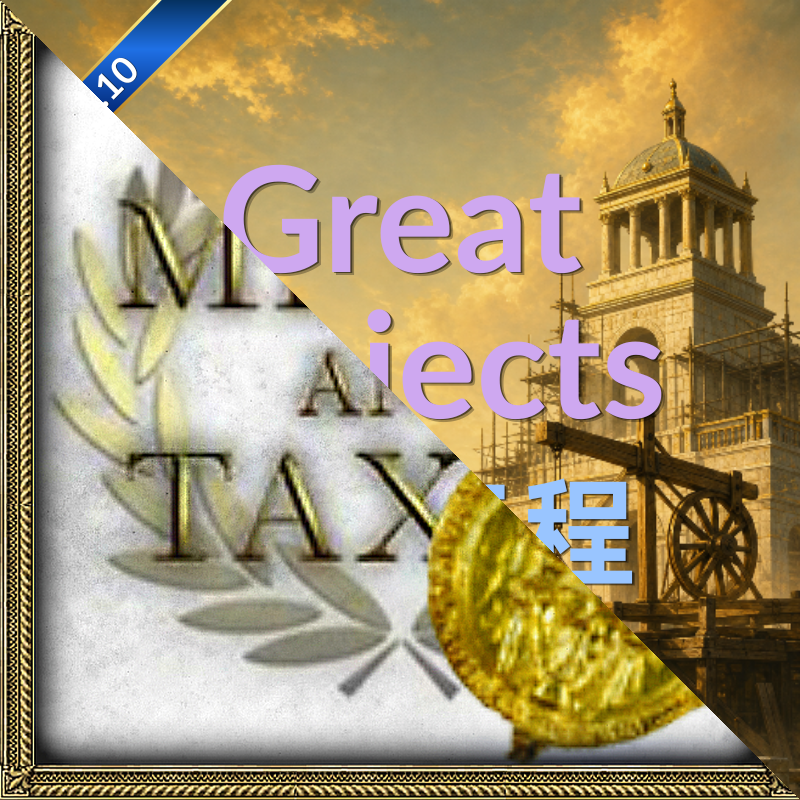
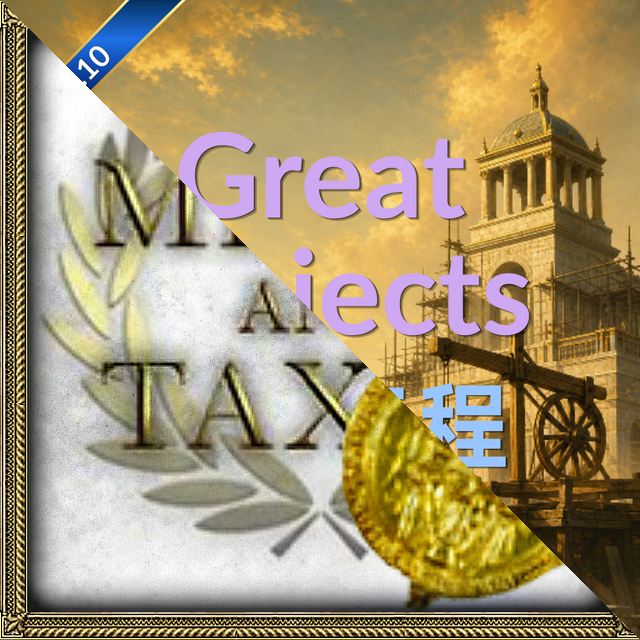
Add compatibility submod documentation in English and Chinese; update thumbnail generation script to optimize image size

Changed region(s): [[0.0, 0.0, 1.0, 1.0]]

diff --git a/scripts/compat/gen_compat_thumbnails.py b/scripts/compat/gen_compat_thumbnails.py
@@ -8,7 +8,9 @@ from PIL import Image
 
 REPO_ROOT = Path(__file__).resolve().parents[2]
 ED_THUMBNAIL = REPO_ROOT / "src_engineering_department" / ".metadata" / "thumbnail.png"
-OUTPUT_SIZE = (800, 800)
+OUTPUT_SIZE = (640, 640)
+# Steam Workshop rejects preview images over 1 MiB; keep real margin below that.
+MAX_BYTES = 900_000
 
 # (external mod thumbnail, output submod thumbnail)
 TARGETS = [
@@ -49,8 +51,14 @@ def generate(external_thumbnail: Path, out_path: Path, mask: Image.Image) -> Non
     ext_img = load_square(external_thumbnail)
     composited = Image.composite(ed_img, ext_img, mask)
     out_path.parent.mkdir(parents=True, exist_ok=True)
-    composited.save(out_path)
-    print(f"Wrote {out_path.relative_to(REPO_ROOT)}")
+    composited.save(out_path, format="PNG", optimize=True, compress_level=9)
+    size = out_path.stat().st_size
+    if size > MAX_BYTES:
+        raise RuntimeError(
+            f"{out_path.relative_to(REPO_ROOT)} is {size} bytes, over the {MAX_BYTES}-byte "
+            "budget -- shrink OUTPUT_SIZE before shipping (Steam Workshop rejects >1 MiB previews)."
+        )
+    print(f"Wrote {out_path.relative_to(REPO_ROOT)} ({size} bytes)")
 
 
 def main() -> None:

diff --git a/docs/marketing/great_project_video_script.md b/docs/marketing/great_project_video_script.md
@@ -21,69 +21,69 @@
 
 | 时间 | 旁白 | 画面建议 |
 |---|---|---|
-| 0:55–1:15 | "伟大工程模组使用原版国际组织功能承载，并且与其他模组完全兼容。" | 工程部 IO 面板截图 |
-| 1:15–1:40 | "这套系统一共提供54种通用奇观，和123座历史上真实存在过的独特奇观。" | "54 通用 / 123 独特"数字做成动态计数器动画 |
-| 1:15–1:40 | "进行奇观建设需要经过构想、论证、测绘、组织和物流、建设和仪式六大阶段，仅仅拥有杜卡特不足以完成建造，调动人力、生产物资同样重要。" | "54 通用 / 123 独特"数字做成动态计数器动画 |
-| 1:15–1:40 | "在建设过程中，你会遇到数百种随机事件，是付出代价全力推进，还是安抚国内不满，一切由你掌握" | "54 通用 / 123 独特"数字做成动态计数器动画 |
-| 1:15–1:40 | "当然，征服世界上已存在的奇观也是一种选择。伟大工程地图模式能够帮你定位征服的目标。" | "54 通用 / 123 独特"数字做成动态计数器动画 |
-| 1:15–1:40 | "伟大工程有的提供本地效果，有的提供全局效果，让奇观真正成为你设计国家发展路线上的一环" | "54 通用 / 123 独特"数字做成动态计数器动画 |
+| 0:55–1:15 | "这套系统其实是挂在原版的国际组织功能上做的，跟其他模组基本不会打架，可以放心一起用。" | 工程部 IO 面板截图 |
+| 1:15–1:40 | "先说数字：一共有54种通用奇观，还有123座历史上真实存在过的独特奇观，内容量还是挺大的。" | "54 通用 / 123 独特"数字做成动态计数器动画 |
+| 1:15–1:40 | "想建奇观，光有钱可不够，得走构想、论证、测绘、组织物流、建设、仪式这六个阶段，一步都少不了。" | "54 通用 / 123 独特"数字做成动态计数器动画 |
+| 1:15–1:40 | "建设过程中还会遇到几百种随机事件，是花代价硬推，还是先安抚国内情绪，都由你自己拿主意。" | "54 通用 / 123 独特"数字做成动态计数器动画 |
+| 1:15–1:40 | "当然，你也可以选择直接去征服已经存在的奇观，我们做了一个专门的地图模式，能帮你标出目标位置。" | "54 通用 / 123 独特"数字做成动态计数器动画 |
+| 1:15–1:40 | "奇观的效果分本地和全局两种，让它真正能影响到你的国家发展路线，而不只是好看而已。" | "54 通用 / 123 独特"数字做成动态计数器动画 |
 
 ---
 
 ## 第三幕：六大建设阶段（1:40–7:10，核心内容）
 
-**过渡：** "接下来，让我们走完一座奇观从无到有的完整六个阶段。"
+**过渡：** "接下来，我们就跟着一座奇观，走一遍从无到有的六个阶段。"
 
 ### 阶段一｜构想 Concept（1:40–2:25）
 
 | 旁白 | 画面 |
 |---|---|
-| "一切始于你任命的'大工程师'。他会根据国家现状，随机提出一个可行的奇观方案。" | 伟大工程师角色卡特写 |
-| "如果国内已有低等级奇观，扩建会成为优先提案。" | 三个选项按钮特写（接受/驳回/贿赂）+ 声望/金币图标高亮 |
-| "当然，如果你对提案不满，批判或是贿赂都是可行操作，但额外的代价不可避免。" | 三个选项按钮特写（接受/驳回/贿赂）+ 声望/金币图标高亮 |
+| "一切从你任命的'大工程师'开始，他会根据国家现状，给你提一个可行的奇观方案。" | 伟大工程师角色卡特写 |
+| "如果国内已经有低等级的奇观，他通常会优先建议扩建。" | 三个选项按钮特写（接受/驳回/贿赂）+ 声望/金币图标高亮 |
+| "如果你对提案不满意，也可以选择批评或者贿赂，不过都要付出一点额外代价——毕竟没有白得的方案。" | 三个选项按钮特写（接受/驳回/贿赂）+ 声望/金币图标高亮 |
 
 ### 阶段二｜论证 Debate（2:25–3:10）
 
 | 旁白 | 画面 |
 |---|---|
-| "方案确定后，你需要说服国内的上等阶层，即贵族、市民和教士支持这项工程。" | "国内支持度"进度条 UI 特写，0–200 刻度 |
-| "满足他们提出的诉求，把支持度攒到100点以上，才能进入下一步。" | 三个阶层图标（贵族/市民/教会）与对应诉求 tooltip |
-| "记住，一旦结束辩论，支持度就会每月损失。谨慎的统治者最多可以积攒200点支持度再结束辩论。" | 三个阶层图标（贵族/市民/教会）与对应诉求 tooltip |
+| "方案定下来之后，你需要说服国内的上层阶级——贵族、市民和教士，支持这项工程。" | "国内支持度"进度条 UI 特写，0–200 刻度 |
+| "满足他们提出的诉求，把支持度攒到100点以上，才能进入下一阶段。" | 三个阶层图标（贵族/市民/教会）与对应诉求 tooltip |
+| "辩论一旦结束，支持度就会每个月往下掉，所以谨慎一点的话，可以先攒到200点封顶再结束。" | 三个阶层图标（贵族/市民/教会）与对应诉求 tooltip |
 
 ### 阶段三｜测绘 Survey（3:10–4:00）
 
 | 旁白 | 画面 |
 |---|---|
-| "在测绘阶段，工程师将亲自前往选定地点进行勘测，评估三项核心能力：规模、物流、组织度，每项0–100%。" | 三项数值条动画（规模/物流/组织） |
-| "这三种适性由地点本身的隐藏契合度、工程师个人能力加上一点点运气共同决定，分别影响这座奇观未来能达到的最高等级、建造成本和工期。" | 数值联动效果示意图（箭头连接到"最高等级/成本/工期"三个结果） |
-| "完成一次测绘可以揭示一项适性条件，贤能的统治者能够选择最恰当的地点进行建设。" | 数值联动效果示意图（箭头连接到"最高等级/成本/工期"三个结果） |
-| "当然，独特奇观拥有固定的历史地点。他们的测绘结果总是非常良好。" | 数值联动效果示意图（箭头连接到"最高等级/成本/工期"三个结果） |
+| "测绘阶段，工程师会亲自去选定的地点勘察，评估三项数值：规模、物流、组织度，都是0到100%。" | 三项数值条动画（规模/物流/组织） |
+| "这三项数值由地点本身的隐藏契合度、工程师的能力，再加上一点运气共同决定，会影响奇观未来能达到的最高等级、造价和工期。" | 数值联动效果示意图（箭头连接到"最高等级/成本/工期"三个结果） |
+| "每测一次能揭示一项数值，所以比较讲究的玩家会多测几次，挑一个条件比较好的地点。" | 数值联动效果示意图（箭头连接到"最高等级/成本/工期"三个结果） |
+| "独特奇观因为地点是固定的，测绘结果通常都比较好。" | 数值联动效果示意图（箭头连接到"最高等级/成本/工期"三个结果） |
 
 ### 阶段四｜组织与建设 Organization & Construction（4:00–5:20，篇幅最长）
 
 | 旁白 | 画面 |
 |---|---|
-| "勘测完成，工程才证实开始。你需要建造工地推进建设，每个工地每月提供1000进度。" | 劳工营地/物料仓库建筑图标 |
-| "奇观的四个组成部分——地基、主体、功能与装饰——每个模块都需要至少十万进度才能完工。" | 四段式建造进度条动画（地基→主体→功能→装饰），可用延时摄影风格剪辑呈现"从空地到建筑"的渐变 |
-| "建造更多的工地能够加速建设，不过千万小心，工地完全由国家维护，费用昂贵。" | 四段式建造进度条动画（地基→主体→功能→装饰），可用延时摄影风格剪辑呈现"从空地到建筑"的渐变 |
-| "工地使用奇观建材作为维护商品，你必须建造足够多的建材工坊，否则工地的工作效率将会下降，维护费也将上涨" | 四段式建造进度条动画（地基→主体→功能→装饰），可用延时摄影风格剪辑呈现"从空地到建筑"的渐变 |
-| "更重要的是，工地必须有劳工工作，每个工地都需要2000名劳动力。这是对国家人口升级速度和迁徙速度的巨大考验。" | 四段式建造进度条动画（地基→主体→功能→装饰），可用延时摄影风格剪辑呈现"从空地到建筑"的渐变 |
-| "如此复杂的工程，想要一次性完成高等级奇观无疑是困难的。不过，你可以先建造低级奇观，随后再在进行扩建，不会损失任何奖励，先前建设留下的建材工坊也会保留。" | 四段式建造进度条动画（地基→主体→功能→装饰），可用延时摄影风格剪辑呈现"从空地到建筑"的渐变 |
+| "勘测完成后工程才算正式开始，你需要建造工地来推进进度，每个工地每月提供1000点进度。" | 劳工营地/物料仓库建筑图标 |
+| "奇观分成地基、主体、功能、装饰四个部分，每个部分都需要至少十万点进度才能完工。" | 四段式建造进度条动画（地基→主体→功能→装饰），可用延时摄影风格剪辑呈现"从空地到建筑"的渐变 |
+| "多建几个工地可以加快建设速度，不过工地是国家出钱维护的，费用不便宜，得量力而行。" | 四段式建造进度条动画（地基→主体→功能→装饰），可用延时摄影风格剪辑呈现"从空地到建筑"的渐变 |
+| "工地需要消耗奇观建材，所以你还得配套建一些建材工坊，不然工地效率会下降，维护费也会跟着上涨。" | 四段式建造进度条动画（地基→主体→功能→装饰），可用延时摄影风格剪辑呈现"从空地到建筑"的渐变 |
+| "另外工地还需要劳工，每个工地要2000名劳动力，这对人口的升级速度和迁徙速度也是个考验。" | 四段式建造进度条动画（地基→主体→功能→装饰），可用延时摄影风格剪辑呈现"从空地到建筑"的渐变 |
+| "一次性建到最高等级并不容易，不过你可以先建一个低等级版本，之后再扩建，之前的奖励和建材工坊都会保留。" | 四段式建造进度条动画（地基→主体→功能→装饰），可用延时摄影风格剪辑呈现"从空地到建筑"的渐变 |
 
 ### 阶段五｜仪式 Ceremony（5:20–6:10）
 
 | 旁白 | 画面 |
 |---|---|
-| "正如同历史上，很多奇观的伟大之处不在于建筑本身，本MOD特地添加了落成之前的最后一道工序：仪式。" | 三种仪式风格选项卡 |
-| "对于通用奇观，你将从三种仪式风格中选择一种，并获得对应的奖励。" | 三种仪式风格选项卡 |
-| "如果你正在建造的是像阿尔罕布拉宫、圣索菲亚大教堂这样独一无二的历史奇观，等待你的将是专属定制的仪式流程。" | 阿尔罕布拉宫/圣索菲亚独特仪式界面截图 |
+| "很多奇观真正的分量，其实不在建筑本身，所以我们在落成之前专门加了一道工序：仪式。" | 三种仪式风格选项卡 |
+| "通用奇观可以从三种仪式风格里选一种，拿到对应的奖励。" | 三种仪式风格选项卡 |
+| "如果是阿尔罕布拉宫、圣索菲亚大教堂这类独一无二的历史奇观，仪式流程就是专属定制的了。" | 阿尔罕布拉宫/圣索菲亚独特仪式界面截图 |
 
 ## 第四幕：奇观图鉴与浏览站点（7:10–8:10）
 
 | 旁白 | 画面 |
 |---|---|
-| "游戏内，我在多个位置制作了游玩指引，相信你首次游玩就可以轻松上手。" | encyclopedia_lateralview 界面截图，鼠标滑过各卡片 |
-| "而如果你想在游戏之外，直接浏览全部奇观，请访问我在Github上开源的'奇观图鉴'。所有独特奇观都以图钉的形式标注在世界地图上，通用奇观则整理在侧边列表中，点开就能看到详情。" | Wonders Atlas 网站录屏：世界地图 + 图钉点击展开详情卡片，侧边通用奇观列表滚动 |
+| "游戏里我在好几个地方都加了引导说明，第一次玩应该也不会太难上手。" | encyclopedia_lateralview 界面截图，鼠标滑过各卡片 |
+| "如果你想在游戏之外看看全部的奇观，可以去我在Github上开源的'奇观图鉴'。独特奇观用图钉标在世界地图上，通用奇观放在侧边列表里，点开就能看详情。" | Wonders Atlas 网站录屏：世界地图 + 图钉点击展开详情卡片，侧边通用奇观列表滚动 |
 
 ---
 
@@ -91,9 +91,9 @@
 
 | 旁白 | 画面 |
 |---|---|
-| "从一句空洞的历史小知识，到一整套构想、论证、勘测、建造、仪式、落成的完整流程——这就是我想让奇观拥有的分量。" | 六阶段流程图标依次点亮的总览动画 |
-| "伟大工程模组现已上线 Steam 创意工坊，欢迎大家体验游玩。" | Steam 创意工坊页面截图/订阅按钮特写，模组 Logo 收尾 |
-| "作为初版发布，难免存在缺漏，如有问题，请加群反馈。" | Steam 创意工坊页面截图/订阅按钮特写，模组 Logo 收尾 |
+| "从一句干巴巴的历史小知识，到构想、论证、测绘、建造、仪式、落成这一整套流程——这就是我想让奇观拥有的分量。" | 六阶段流程图标依次点亮的总览动画 |
+| "伟大工程模组现在已经上线Steam创意工坊了，欢迎大家去试玩。" | Steam 创意工坊页面截图/订阅按钮特写，模组 Logo 收尾 |
+| "毕竟是第一个版本，难免有些没注意到的地方，有问题的话欢迎加群跟我说一声。" | Steam 创意工坊页面截图/订阅按钮特写，模组 Logo 收尾 |
 
 ---
 

diff --git a/docs/marketing/compat_submods_workshop_zh.md b/docs/marketing/compat_submods_workshop_zh.md
@@ -1,0 +1,91 @@
+# Steam 创意工坊页面 — 兼容子模组（中文）
+
+> 格式说明：三个 `Great Project` 兼容子模组各自的 Steam 创意工坊页面 BBCode。
+> 每个子模组是独立的创意工坊项目，各自有自己的描述；下面用 `---` 分隔仅为
+> 方便编辑，发布时不要把分隔线一起粘贴进去。
+>
+> 以下所有链接均为已知的真实创意工坊地址，包括 Great Project 本体的页面。
+>
+> 本文是 `compat_submods_workshop_en.md` 的逐段翻译，两个版本的结构、条目顺序
+> 应保持一致；修改任意一版的内容后，请同步更新另一版。
+
+---
+
+## MEIOU and Taxes 兼容补丁
+
+**标题：** Great Project - MEIOU and Taxes Compatibility
+
+```bbcode
+[h2]这个模组是做什么的[/h2]
+[list]
+[*] [b]Great Project[/b] 和 [b]MEIOU and Taxes[/b] 都整份覆写了 [i]location_window.gui[/i]（位置面板）。如果不装这个补丁就同时启用两者，谁在加载顺序里靠后谁就会完全生效，另一个模组对位置面板的修改会直接消失——没有报错，也没有警告。
+[*] 本子模组把两者合并：以 M&T 自己的位置窗口为基础，叠加 Great Project 的奇观徽标与提示浮窗，让两个模组的位置面板功能同时生效。
+[/list]
+
+[h2]使用方法[/h2]
+[olist]
+[*] 订阅并启用 [b][url=https://steamcommunity.com/sharedfiles/filedetails/?id=3692202776]Community Mod Framework (CMF)[/url][/b] 2.x
+[*] 订阅并启用 [b][url=https://steamcommunity.com/sharedfiles/filedetails/?id=3766869023]Great Project[/url][/b]
+[*] 订阅并启用 [b][url=https://steamcommunity.com/sharedfiles/filedetails/?id=3735059838]MEIOU and Taxes[/url][/b]
+[*] 订阅并启用[b]本兼容补丁[/b]，在你的模组列表加载顺序中放在[b]以上两者之下[/b]
+[/olist]
+
+[h2]相关链接[/h2]
+[list]
+[*] [b][url=https://steamcommunity.com/sharedfiles/filedetails/?id=3766869023]Great Project[/url][/b] —— 本补丁所兼容的主模组。
+[/list]
+```
+
+---
+
+## Standard of Living 兼容补丁
+
+**标题：** Great Project - Standard of Living Compatibility
+
+```bbcode
+[h2]这个模组是做什么的[/h2]
+[list]
+[*] [b]Great Project[/b] 和 [b]Standard of Living[/b] 都整份覆写了 [i]location_window.gui[/i]（位置面板）。如果不装这个补丁就同时启用两者，谁在加载顺序里靠后谁就会完全生效，另一个模组对位置面板的修改会直接消失——没有报错，也没有警告。
+[*] 本子模组把两者合并：以 Standard of Living 自己的位置窗口为基础，叠加 Great Project 的奇观徽标与提示浮窗，让两个模组的位置面板功能同时生效。
+[/list]
+
+[h2]使用方法[/h2]
+[olist]
+[*] 订阅并启用 [b][url=https://steamcommunity.com/sharedfiles/filedetails/?id=3692202776]Community Mod Framework (CMF)[/url][/b] 2.x
+[*] 订阅并启用 [b][url=https://steamcommunity.com/sharedfiles/filedetails/?id=3766869023]Great Project[/url][/b]
+[*] 订阅并启用 [b][url=https://steamcommunity.com/sharedfiles/filedetails/?id=3698931463]Standard of Living[/url][/b]
+[*] 订阅并启用[b]本兼容补丁[/b]，在你的模组列表加载顺序中放在[b]以上两者之下[/b]
+[/olist]
+
+[h2]相关链接[/h2]
+[list]
+[*] [b][url=https://steamcommunity.com/sharedfiles/filedetails/?id=3766869023]Great Project[/url][/b] —— 本补丁所兼容的主模组。
+[/list]
+```
+
+---
+
+## Prosper or Perish 兼容补丁
+
+**标题：** Great Project - Prosper or Perish Compatibility
+
+```bbcode
+[h2]这个模组是做什么的[/h2]
+[list]
+[*] [b]Great Project[/b] 和 [b]Prosper or Perish[/b] 都整份覆写了 [i]encyclopedia_lateralview.gui[/i]（Europedia 百科面板），各自加了一个自定义侧边栏标签页。如果不装这个补丁就同时启用两者，谁在加载顺序里靠后谁就会完全生效，另一个模组的 Europedia 标签页会直接彻底消失——没有报错，也没有警告。
+[*] 本子模组把两个标签页合并到同一套切换开关上，让 Great Project 和 Prosper or Perish 的 Europedia 标签页都能正常打开，也都能正常退回原版页面列表。
+[/list]
+
+[h2]使用方法[/h2]
+[olist]
+[*] 订阅并启用 [b][url=https://steamcommunity.com/sharedfiles/filedetails/?id=3692202776]Community Mod Framework (CMF)[/url][/b] 2.x
+[*] 订阅并启用 [b][url=https://steamcommunity.com/sharedfiles/filedetails/?id=3766869023]Great Project[/url][/b]
+[*] 订阅并启用 [b][url=https://steamcommunity.com/sharedfiles/filedetails/?id=3613232232]Prosper or Perish[/url][/b]
+[*] 订阅并启用[b]本兼容补丁[/b]，在你的模组列表加载顺序中放在[b]以上两者之下[/b]
+[/olist]
+
+[h2]相关链接[/h2]
+[list]
+[*] [b][url=https://steamcommunity.com/sharedfiles/filedetails/?id=3766869023]Great Project[/url][/b] —— 本补丁所兼容的主模组。
+[/list]
+```

diff --git a/docs/marketing/compat_submods_workshop_en.md b/docs/marketing/compat_submods_workshop_en.md
@@ -1,0 +1,90 @@
+# Steam Workshop pages — Compatibility Submods (English)
+
+> Format note: BBCode for the three `Great Project` compatibility submods'
+> own Steam Workshop pages. Each is a separate Workshop item with its own
+> description; the sections below are separated by `---` for editing
+> convenience only — do not paste the separators into Steam.
+>
+> All links below use real, already-known Workshop ids, including Great
+> Project's own page.
+
+---
+
+## MEIOU and Taxes Compatibility
+
+**Title:** Great Project - MEIOU and Taxes Compatibility
+
+```bbcode
+[h2]What this does[/h2]
+[list]
+[*] [b]Great Project[/b] and [b]MEIOU and Taxes[/b] both fully override [i]location_window.gui[/i] (the location panel). Enabling both without this patch means whichever mod loads last silently wins, and the other mod's location panel changes disappear — no error, no warning.
+[*] This submod merges the two: it takes M&T's own location window and adds Great Project's wonder badge and tooltip overlay on top, so both mods' location panel features work together.
+[/list]
+
+[h2]How to use[/h2]
+[olist]
+[*] Subscribe to and enable [b][url=https://steamcommunity.com/sharedfiles/filedetails/?id=3692202776]Community Mod Framework (CMF)[/url][/b] 2.x
+[*] Subscribe to and enable [b][url=https://steamcommunity.com/sharedfiles/filedetails/?id=3766869023]Great Project[/url][/b]
+[*] Subscribe to and enable [b][url=https://steamcommunity.com/sharedfiles/filedetails/?id=3735059838]MEIOU and Taxes[/url][/b]
+[*] Subscribe to and enable [b]this compatibility patch[/b], placed [b]below both[/b] of the above in your playset's load order
+[/olist]
+
+[h2]Links[/h2]
+[list]
+[*] [b][url=https://steamcommunity.com/sharedfiles/filedetails/?id=3766869023]Great Project[/url][/b] — the main mod this patch is for.
+[/list]
+```
+
+---
+
+## Standard of Living Compatibility
+
+**Title:** Great Project - Standard of Living Compatibility
+
+```bbcode
+[h2]What this does[/h2]
+[list]
+[*] [b]Great Project[/b] and [b]Standard of Living[/b] both fully override [i]location_window.gui[/i] (the location panel). Enabling both without this patch means whichever mod loads last silently wins, and the other mod's location panel changes disappear — no error, no warning.
+[*] This submod merges the two: it takes Standard of Living's own location window and adds Great Project's wonder badge and tooltip overlay on top, so both mods' location panel features work together.
+[/list]
+
+[h2]How to use[/h2]
+[olist]
+[*] Subscribe to and enable [b][url=https://steamcommunity.com/sharedfiles/filedetails/?id=3692202776]Community Mod Framework (CMF)[/url][/b] 2.x
+[*] Subscribe to and enable [b][url=https://steamcommunity.com/sharedfiles/filedetails/?id=3766869023]Great Project[/url][/b]
+[*] Subscribe to and enable [b][url=https://steamcommunity.com/sharedfiles/filedetails/?id=3698931463]Standard of Living[/url][/b]
+[*] Subscribe to and enable [b]this compatibility patch[/b], placed [b]below both[/b] of the above in your playset's load order
+[/olist]
+
+[h2]Links[/h2]
+[list]
+[*] [b][url=https://steamcommunity.com/sharedfiles/filedetails/?id=3766869023]Great Project[/url][/b] — the main mod this patch is for.
+[/list]
+```
+
+---
+
+## Prosper or Perish Compatibility
+
+**Title:** Great Project - Prosper or Perish Compatibility
+
+```bbcode
+[h2]What this does[/h2]
+[list]
+[*] [b]Great Project[/b] and [b]Prosper or Perish[/b] both fully override [i]encyclopedia_lateralview.gui[/i] (the Europedia panel) to add their own custom sidebar tab. Enabling both without this patch means whichever mod loads last silently wins, and the other mod's Europedia tab disappears entirely — no error, no warning.
+[*] This submod merges the two tabs onto one shared toggle, so both Great Project's and Prosper or Perish's Europedia tabs open correctly and exit back to the vanilla page list as expected.
+[/list]
+
+[h2]How to use[/h2]
+[olist]
+[*] Subscribe to and enable [b][url=https://steamcommunity.com/sharedfiles/filedetails/?id=3692202776]Community Mod Framework (CMF)[/url][/b] 2.x
+[*] Subscribe to and enable [b][url=https://steamcommunity.com/sharedfiles/filedetails/?id=3766869023]Great Project[/url][/b]
+[*] Subscribe to and enable [b][url=https://steamcommunity.com/sharedfiles/filedetails/?id=3613232232]Prosper or Perish[/url][/b]
+[*] Subscribe to and enable [b]this compatibility patch[/b], placed [b]below both[/b] of the above in your playset's load order
+[/olist]
+
+[h2]Links[/h2]
+[list]
+[*] [b][url=https://steamcommunity.com/sharedfiles/filedetails/?id=3766869023]Great Project[/url][/b] — the main mod this patch is for.
+[/list]
+```
